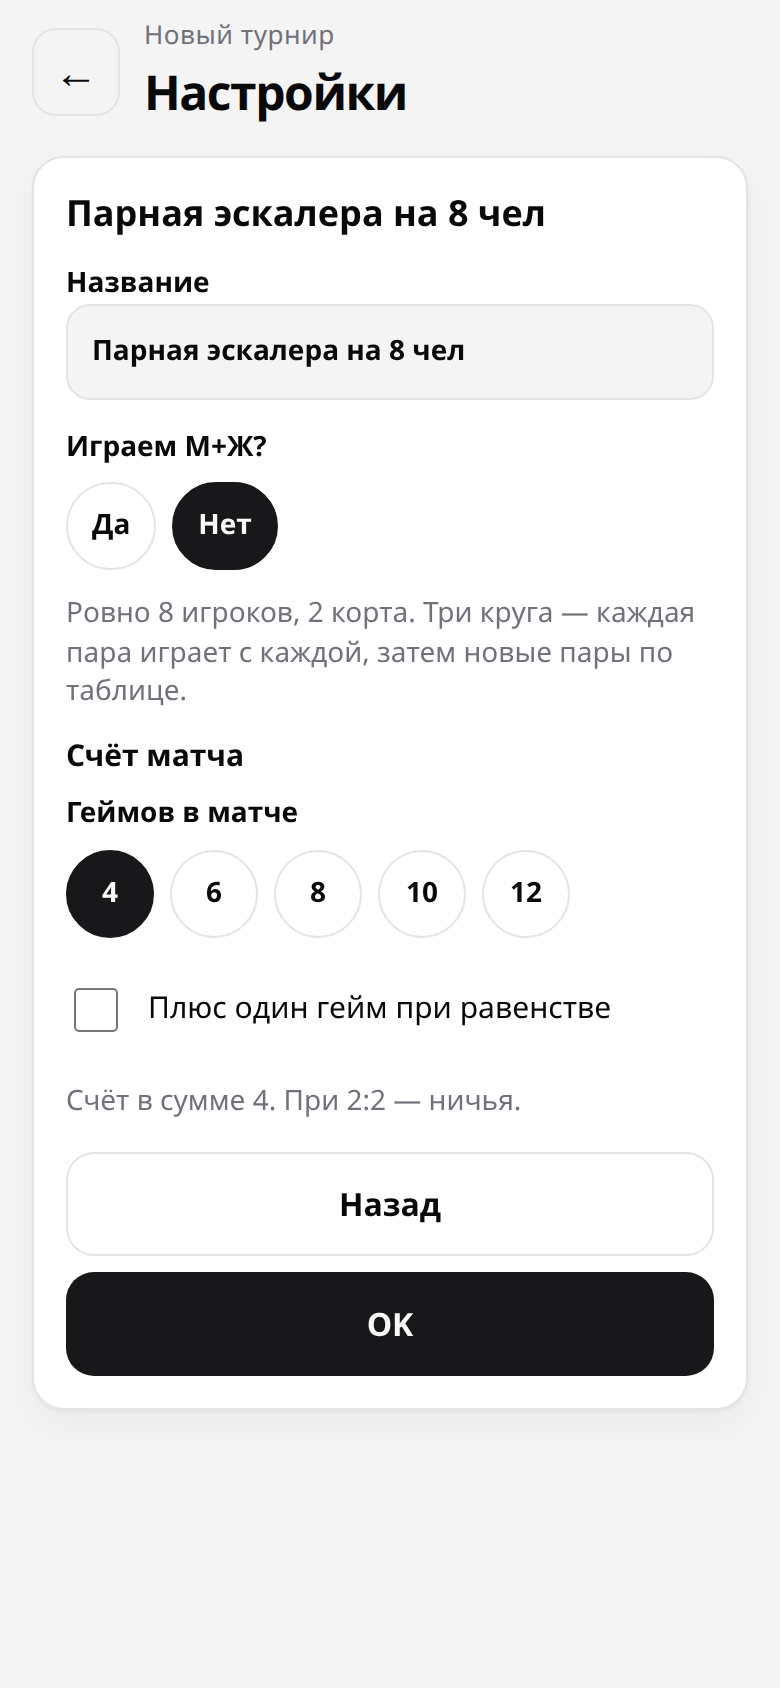
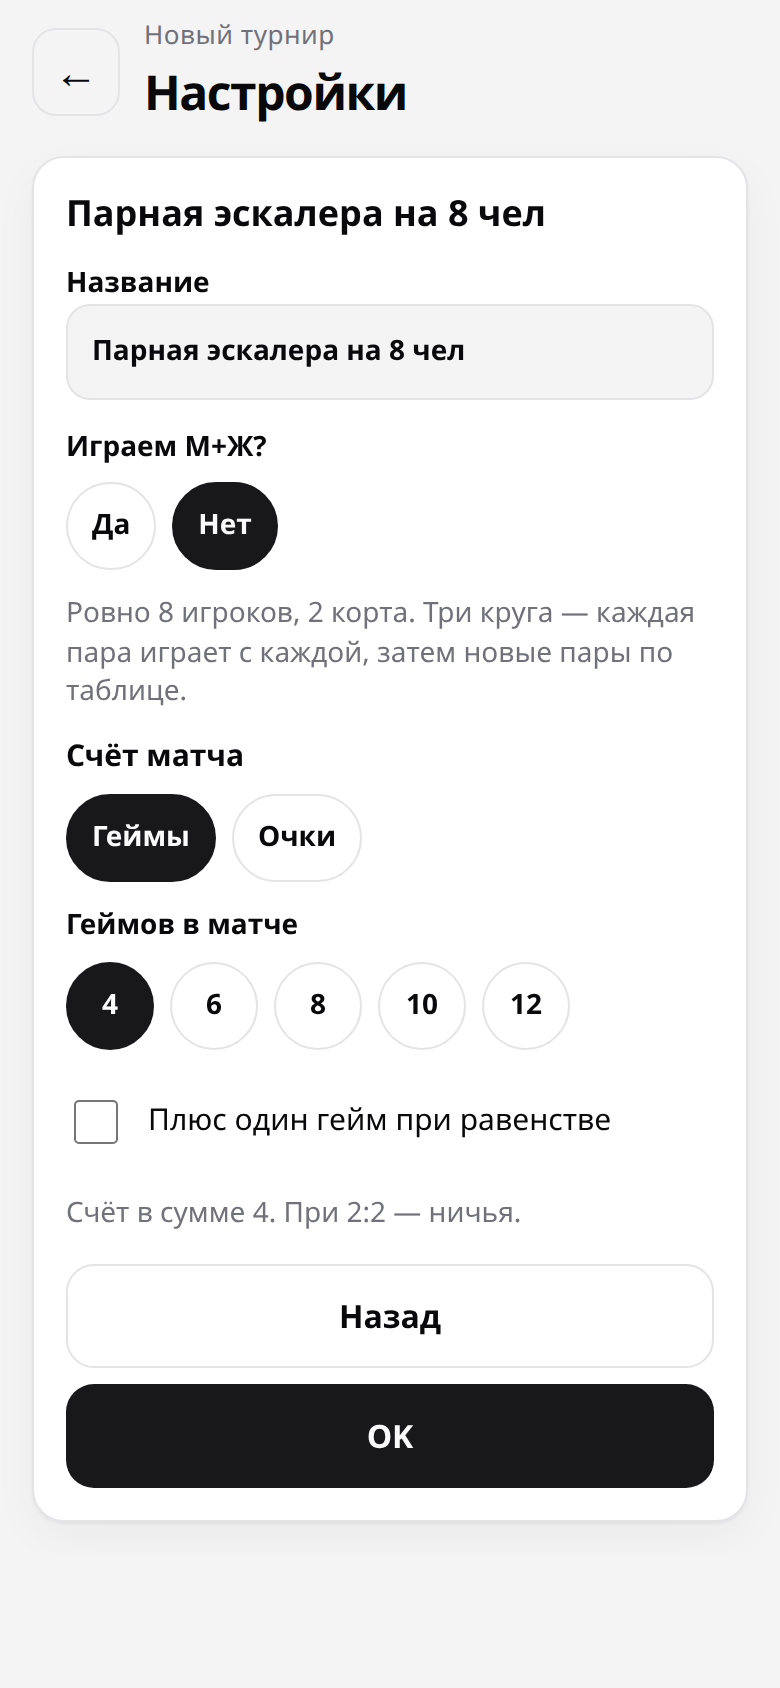
feat(tracker): pair-escalera games or points scoring (0.7.20) (#26)
Add a Геймы/Очки switch. Games keep chips 4/6/8/10/12 (default 4).
Points use 15/17/19/21 and custom (default 21). Both sum to the limit
with an optional deciding score at half; odd limits ignore the checkbox.

diff --git a/tracker/js/render.js b/tracker/js/render.js
@@ -6,9 +6,12 @@ import {
   matchComplete,
   neededGames,
   POINTS_PRESETS,
+  scoreTotalDeciding,
+  scoreTotalLimit,
   scoreWheelMax,
   settingsForRound,
   usesGamesTotal,
+  usesScoreTotal,
 } from './scoring.js';
 import { computeStandings, sortStandings, standingMarks, standingPlace } from './standings.js';
 import { autoCourts, compactMatchLine, compactSittingLine, formatMatchLine, genderCounts } from './pairing.js';
@@ -50,6 +53,15 @@ function ruGeyms(n) {
   return 'геймов';
 }
 
+function ruOcki(n) {
+  const m = Math.abs(Number(n)) % 100;
+  const d = m % 10;
+  if (m > 10 && m < 20) return 'очков';
+  if (d === 1) return 'очко';
+  if (d >= 2 && d <= 4) return 'очка';
+  return 'очков';
+}
+
 function ruCourts(n) {
   const v = Number(n);
   if (v === 1) return '1 корт';
@@ -67,9 +79,11 @@ export function canPlayMixed(players) {
 }
 
 export function scoringSummary(s) {
-  if (usesGamesTotal(s)) {
-    const n = gamesToWin(s);
-    return `${n} ${ruGeyms(n)}${s.decidingGame ? ' + решающий' : ''}`;
+  if (usesScoreTotal(s)) {
+    const n = scoreTotalLimit(s);
+    const extra = scoreTotalDeciding(s) ? (s.scoringMode === 'points' ? ' + решающее' : ' + решающий') : '';
+    if (s.scoringMode === 'points') return `${n} ${ruOcki(n)}${extra}`;
+    return `${n} ${ruGeyms(n)}${extra}`;
   }
   if (s.scoringMode === 'games') {
     const n = gamesToWin(s);
@@ -343,7 +357,7 @@ function renderFormatSettings(s, { draft = false, players = [], hideQualifying =
       ${renderMixed(s, action, okMixed, players)}
       <p class="hint">Ровно 8 игроков, 2 корта. Три круга — каждая пара играет с каждой, затем новые пары по таблице.</p>
       <h3>Счёт матча</h3>
-      ${renderPairEscaleraGamesFields(s, { draft })}`;
+      ${renderPairEscaleraScoringFields(s, { draft })}`;
   }
   if (format === 'free') {
     return `
@@ -494,29 +508,58 @@ function renderPointsFields(s, { draft = false } = {}) {
     </label>`;
 }
 
-function renderPairEscaleraGamesFields(s, { draft = false } = {}) {
+function renderPairEscaleraScoringFields(s, { draft = false } = {}) {
   const action = draft ? 'draft-setting-val' : 'setting-val';
   const toggle = draft ? 'draft-toggle' : 'toggle';
   const gamesOn = s.scoringMode === 'games';
-  const n = gamesOn ? gamesToWin(s) : 4;
+  const pointsOn = s.scoringMode === 'points';
+  const n = gamesOn || pointsOn ? scoreTotalLimit(s) : 4;
+  const even = n % 2 === 0;
   const half = n / 2;
-  return `
-    <p class="field-label">Геймов в матче</p>
-    <div class="seg wrap">
-      ${GAMES_TOTAL_PRESETS.map(
+  const modeOn = gamesOn || pointsOn;
+  const decidingOn = Boolean(s.decidingGame) && modeOn && even;
+  const unit = pointsOn ? 'очко' : 'гейм';
+  const chips = pointsOn
+    ? `${POINTS_PRESETS.map(
         (v) =>
-          `<button type="button" class="seg-btn ${gamesOn && n === v ? 'is-on' : ''}" data-action="${action}" data-key="gamesToWin" data-value="${v}">${v}</button>`,
+          `<button type="button" class="seg-btn ${Number(s.totalPoints) === v ? 'is-on' : ''}" data-action="${action}" data-key="totalPoints" data-value="${v}">${v}</button>`,
       ).join('')}
+      <button type="button" class="seg-btn ${s.totalPoints === 'custom' ? 'is-on' : ''}" data-action="${action}" data-key="totalPoints" data-value="custom">Своё</button>`
+    : GAMES_TOTAL_PRESETS.map(
+        (v) =>
+          `<button type="button" class="seg-btn ${gamesOn && gamesToWin(s) === v ? 'is-on' : ''}" data-action="${action}" data-key="gamesToWin" data-value="${v}">${v}</button>`,
+      ).join('');
+  const customField =
+    pointsOn && s.totalPoints === 'custom'
+      ? `<label class="field">Своё N
+            <input class="input" type="number" min="1" max="99" data-action="${draft ? 'draft-setting' : 'setting'}" data-key="customTotal" value="${esc(s.customTotal)}" />
+          </label>`
+      : '';
+  let hint;
+  if (!modeOn) {
+    hint = 'Выберите геймы или очки.';
+  } else if (!even) {
+    hint = `Счёт в сумме ${n}. При нечётном лимите ничья невозможна.`;
+  } else if (decidingOn) {
+    hint = `Счёт в сумме ${n}. При ${half}:${half} играется ещё ${unit === 'очко' ? 'одно очко' : 'один гейм'}, итог ${half + 1}:${half}.`;
+  } else {
+    hint = `Счёт в сумме ${n}. При ${half}:${half} — ничья.`;
+  }
+  return `
+    <div class="seg wrap">
+      <button type="button" class="seg-btn ${gamesOn ? 'is-on' : ''}" data-action="${action}" data-key="scoringMode" data-value="games">Геймы</button>
+      <button type="button" class="seg-btn ${pointsOn ? 'is-on' : ''}" data-action="${action}" data-key="scoringMode" data-value="points">Очки</button>
     </div>
+    <p class="field-label">${pointsOn ? 'Очков в матче' : 'Геймов в матче'}</p>
+    <div class="seg wrap">
+      ${chips}
+    </div>
+    ${customField}
     <label class="toggle">
-      <input type="checkbox" data-action="${toggle}" data-key="decidingGame" ${s.decidingGame && gamesOn ? 'checked' : ''} />
-      <span>Плюс один гейм при равенстве</span>
+      <input type="checkbox" data-action="${toggle}" data-key="decidingGame" ${s.decidingGame && modeOn ? 'checked' : ''} ${!even && modeOn ? 'disabled' : ''} />
+      <span>${pointsOn ? 'Плюс одно очко при равенстве' : 'Плюс один гейм при равенстве'}</span>
     </label>
-    <p class="hint">${
-      s.decidingGame && gamesOn
-        ? `Счёт в сумме ${n}. При ${half}:${half} играется ещё один гейм, итог ${half + 1}:${half}.`
-        : `Счёт в сумме ${n}. При ${half}:${half} — ничья.`
-    }</p>`;
+    <p class="hint">${hint}</p>`;
 }
 
 function renderGamesFields(s, { draft = false } = {}) {
@@ -947,6 +990,7 @@ function renderScorePicker(store, tournament) {
 }
 
 function renderTable(store, tournament) {
+  const scoreNoun = usesGamesTotal(tournament.settings) ? 'Геймы' : 'Очки';
   const primary = tournament.settings.standingsSort === 'wins' ? 'wins' : 'points';
   const sort = store.ui.sort || primary;
   const rows = sortStandings(
@@ -999,7 +1043,7 @@ function renderTable(store, tournament) {
         <h2>${finished ? 'Итог' : 'Таблица'}</h2>
         ${finished ? '<p class="hint">Турнир завершён. Можно открыть снова в настройках.</p>' : ''}
         <div class="seg sort-seg" role="group" aria-label="Сортировка">
-          <button type="button" class="seg-btn ${sort === 'points' ? 'is-on' : ''}" data-action="sort" data-sort="points">Очки</button>
+          <button type="button" class="seg-btn ${sort === 'points' ? 'is-on' : ''}" data-action="sort" data-sort="points">${scoreNoun}</button>
           <button type="button" class="seg-btn ${sort === 'wins' ? 'is-on' : ''}" data-action="sort" data-sort="wins">Победы</button>
           <button type="button" class="seg-btn ${sort === 'delta' ? 'is-on' : ''}" data-action="sort" data-sort="delta">Разница</button>
         </div>
@@ -1011,7 +1055,7 @@ function renderTable(store, tournament) {
                 <th class="name">Игрок</th>
                 <th class="stat">В</th>
                 <th class="stat">П</th>
-                <th class="pts">Очки</th>
+                <th class="pts">${scoreNoun}</th>
                 <th class="delta">Δ</th>
               </tr>
             </thead>

diff --git a/tracker/js/scoring.js b/tracker/js/scoring.js
@@ -25,8 +25,30 @@ export function gamesToWin(settings) {
   return 6;
 }
 
+/** Лимит суммы в парной эскалере: геймы (gamesToWin) или очки (15/17/19/21/своё). */
+export function scoreTotalLimit(settings) {
+  if (settings?.scoringMode === 'points') {
+    if (settings.totalPoints === 'custom') {
+      const n = Number(settings.customTotal);
+      if (Number.isFinite(n) && n >= 1) return Math.round(n);
+      return 21;
+    }
+    const n = Number(settings.totalPoints);
+    if (Number.isFinite(n) && n >= 1) return Math.round(n);
+    return 21;
+  }
+  return gamesToWin(settings);
+}
+
+/** Решающий только при чётном лимите: иначе половины нет. */
+export function scoreTotalDeciding(settings) {
+  if (!settings?.decidingGame) return false;
+  return scoreTotalLimit(settings) % 2 === 0;
+}
+
 /** Верх барабана и крутилки: 0..цель (очки) или 0..N (геймы). */
 export function scoreWheelMax(settings, roundKind) {
+  if (usesScoreTotal(settings, roundKind)) return scoreTotalLimit(settings);
   if (settings.scoringMode === 'games' && roundKind !== 'qualifying') return gamesToWin(settings);
   const target = pointsTarget(settings, roundKind);
   if (target == null) return 32;
@@ -40,7 +62,7 @@ export function scoringSnapshot(settings, { forNewRound = false } = {}) {
     setScore: gamesMode && (forNewRound || settings.setScore === true),
     gamesToWin: gamesToWin(settings),
     gamesPerPairing: settings.gamesPerPairing,
-    gamesTotal: usesGamesTotal(settings),
+    gamesTotal: usesScoreTotal(settings),
     decidingGame: Boolean(settings.decidingGame),
     pointsPreset: settings.pointsPreset,
     customPoints: settings.customPoints,
@@ -71,13 +93,17 @@ export function usesTotalPoints(settings, roundKind) {
 }
 
 /**
- * Парная эскалера: ровно N геймов (сумма счёта = N), не «до N».
- * Старые сохранения с scoringMode total продолжают считать очки.
+ * Парная эскалера: сумма до N (геймы или очки), не «до N» и не Lunda.
+ * Старые сохранения с scoringMode total продолжают считать очки Lunda.
  */
-export function usesGamesTotal(settings, roundKind) {
+export function usesScoreTotal(settings, roundKind) {
   if (roundKind === 'qualifying') return false;
-  if (settings?.scoringMode !== 'games') return false;
+  if (settings?.scoringMode !== 'games' && settings?.scoringMode !== 'points') return false;
   return settings.gamesTotal === true || settings.tournamentFormat === 'pair-escalera';
+}
+
+export function usesGamesTotal(settings, roundKind) {
+  return usesScoreTotal(settings, roundKind) && settings?.scoringMode === 'games';
 }
 
 /** Игра до фиксированной суммы: второе поле = цель − введённое. При «с разницей в 2» не заполняем. */
@@ -112,7 +138,7 @@ export function autoFillGames(entered, n, decidingGame) {
 export function autoFillGamesTotal(entered, n, decidingGame) {
   if (entered === '' || entered == null) return null;
   const v = Number(entered);
-  const N = Math.max(2, Number(n) || 4);
+  const N = Math.max(1, Number(n) || 4);
   if (!Number.isFinite(v) || v < 0) return null;
   const half = N / 2;
   if (decidingGame && v === half + 1) return half;
@@ -120,8 +146,8 @@ export function autoFillGamesTotal(entered, n, decidingGame) {
 }
 
 export function autoFillScore(entered, settings, roundKind) {
-  if (usesGamesTotal(settings, roundKind)) {
-    return autoFillGamesTotal(entered, gamesToWin(settings), settings.decidingGame);
+  if (usesScoreTotal(settings, roundKind)) {
+    return autoFillGamesTotal(entered, scoreTotalLimit(settings), scoreTotalDeciding(settings));
   }
   if (settings.scoringMode === 'games' && settings.setScore && roundKind !== 'qualifying') {
     return autoFillGames(entered, gamesToWin(settings), settings.decidingGame);
@@ -160,7 +186,7 @@ export function applyScoreWithSync(game, side, parsed, settings, roundKind, { fr
     if (other != null) {
       next[otherSide] = other;
     } else if (
-      !usesGamesTotal(settings, roundKind) &&
+      !usesScoreTotal(settings, roundKind) &&
       settings.scoringMode === 'games' &&
       settings.setScore &&
       roundKind !== 'qualifying' &&
@@ -189,10 +215,10 @@ export function isValidGamesTotalScore(a, b, settings) {
   const left = Number(a);
   const right = Number(b);
   if (left < 0 || right < 0) return false;
-  const N = gamesToWin(settings);
+  const N = scoreTotalLimit(settings);
   const sum = left + right;
   const half = N / 2;
-  if (settings.decidingGame) {
+  if (scoreTotalDeciding(settings)) {
     if (sum === N + 1) {
       return Math.max(left, right) === half + 1 && Math.min(left, right) === half;
     }
@@ -253,7 +279,7 @@ export function gamesSum(games) {
  */
 export function neededGames(settings, roundKind, games) {
   if (roundKind === 'qualifying') return 1;
-  if (usesGamesTotal(settings, roundKind)) return 1;
+  if (usesScoreTotal(settings, roundKind)) return 1;
   if (settings.scoringMode === 'games' && !settings.setScore) {
     const base = Math.max(1, Number(settings.gamesPerPairing) || 1);
     if (base > 1) {
@@ -279,7 +305,7 @@ export function matchComplete(match, settings, roundKind) {
   const n = neededGames(settings, kind, match.games);
   const games = (match.games || []).slice(0, n);
   if (games.length < n || !games.every(isGameComplete)) return false;
-  if (usesGamesTotal(settings, kind)) {
+  if (usesScoreTotal(settings, kind)) {
     return games.every((g) => isValidGamesTotalScore(g.a, g.b, settings));
   }
   if (settings.scoringMode === 'games' && settings.setScore && kind !== 'qualifying') {

diff --git a/tracker/js/app.js b/tracker/js/app.js
@@ -235,22 +235,28 @@ const SCORING_KEYS = new Set([
   'gamesPerPairing',
 ]);
 
-function applyPairEscaleraGames(settings, { key } = {}) {
+function parseSettingValue(key, raw) {
+  if (key === 'gamesToWin') return Number(raw);
+  if (key === 'totalPoints' && raw !== 'custom') return Number(raw);
+  return raw;
+}
+
+function applyPairEscaleraScore(settings, { key } = {}) {
   if ((settings.tournamentFormat || '') !== 'pair-escalera') return;
-  if (key && key !== 'gamesToWin' && key !== 'decidingGame') return;
-  const wasGames = settings.scoringMode === 'games' && settings.gamesTotal;
-  settings.scoringMode = 'games';
-  settings.setScore = true;
+  const scoreKeys = new Set(['gamesToWin', 'decidingGame', 'scoringMode', 'totalPoints', 'customTotal']);
+  if (key && !scoreKeys.has(key)) return;
+  if (settings.scoringMode !== 'games' && settings.scoringMode !== 'points') return;
   settings.gamesTotal = true;
-  if (!wasGames && key === 'gamesToWin') settings.decidingGame = false;
+  if (settings.scoringMode === 'games') settings.setScore = true;
+  if (settings.scoringMode === 'points') settings.winByTwo = false;
 }
 
 function patchLiveSettings(t, patch) {
   const keys = Object.keys(patch);
   if (keys.some((key) => SCORING_KEYS.has(key))) freezeRoundScoring(t.rounds, t.settings);
   for (const [key, value] of Object.entries(patch)) {
-    patchSettings(t.settings, key, key === 'gamesToWin' ? Number(value) : value);
-    applyPairEscaleraGames(t.settings, { key });
+    patchSettings(t.settings, key, parseSettingValue(key, value));
+    applyPairEscaleraScore(t.settings, { key });
   }
   if (t.settings.scoringMode === 'games') t.settings.setScore = true;
   if (t.settings.scoringMode === 'total') t.settings.winByTwo = false;
@@ -982,9 +988,9 @@ function onClick(event) {
   }
   if (action === 'draft-setting-val' && store.ui.draft) {
     const key = btn.dataset.key;
-    const value = key === 'gamesToWin' ? Number(btn.dataset.value) : btn.dataset.value;
+    const value = parseSettingValue(key, btn.dataset.value);
     patchSettings(store.ui.draft.settings, key, value);
-    applyPairEscaleraGames(store.ui.draft.settings, { key });
+    applyPairEscaleraScore(store.ui.draft.settings, { key });
     if (store.ui.draft.settings.scoringMode === 'games') store.ui.draft.settings.setScore = true;
     paint();
     return;
@@ -1025,7 +1031,7 @@ function onChange(event) {
   }
   if (action === 'draft-toggle' && el instanceof HTMLInputElement && store.ui.draft) {
     store.ui.draft.settings[el.dataset.key] = el.checked;
-    applyPairEscaleraGames(store.ui.draft.settings, { key: el.dataset.key });
+    applyPairEscaleraScore(store.ui.draft.settings, { key: el.dataset.key });
     paint();
     return;
   }

diff --git a/tracker/index.html b/tracker/index.html
@@ -26,12 +26,12 @@
     <link rel="manifest" href="./manifest.webmanifest" />
     <link rel="apple-touch-icon" href="./icons/apple-touch-icon.png" sizes="180x180" />
     <link rel="icon" type="image/png" href="./icons/icon-192.png" sizes="192x192" />
-    <link rel="stylesheet" href="./styles.css?v=0.7.19" />
+    <link rel="stylesheet" href="./styles.css?v=0.7.20" />
   </head>
   <body>
     <div id="app">Загрузка…</div>
     <input id="import-file" type="file" accept="application/json,.json" hidden />
-    <script type="module" src="./js/app.js?v=0.7.19"></script>
+    <script type="module" src="./js/app.js?v=0.7.20"></script>
     <script>
       if ('serviceWorker' in navigator) {
         navigator.serviceWorker.register('./sw.js', { scope: './' }).catch(function () {});

diff --git a/tracker/sw.js b/tracker/sw.js
@@ -1,5 +1,5 @@
 /* Версия кэша = cache-bust трекера. При релизе подними вместе с ?v= в index.html. */
-const VERSION = '0.7.19';
+const VERSION = '0.7.20';
 const CACHE = `padel-tracker-v${VERSION}`;
 const ASSETS = [
   './',

diff --git a/CHANGELOG.md b/CHANGELOG.md
@@ -1,5 +1,12 @@
 # Changelog
 
+## 0.7.20 — парная эскалера: геймы или очки
+
+- В «Парной эскалере на 8 чел» переключатель **Геймы / Очки** (по умолчанию геймы).
+- Геймы: чипы 4, 6, 8, 10, 12 (по умолчанию 4). Очки: 15, 17, 19, 21 и «Своё» (по умолчанию 21).
+- Счёт в сумме равен лимиту. Чекбокс «плюс один при равенстве» добавляет решающий при ничьей в половине; при нечётном лимите не действует.
+- Шапка и таблица: «4 гейма» / «21 очко». Старые сохранения с суммой очков Lunda по-прежнему открываются.
+
 ## 0.7.19 — парная эскалера: геймы 4/6/8/10/12
 
 - В «Парной эскалере на 8 чел» счёт матча — геймы, не очки Lunda. Чипы **4, 6, 8, 10, 12**, по умолчанию 4.
